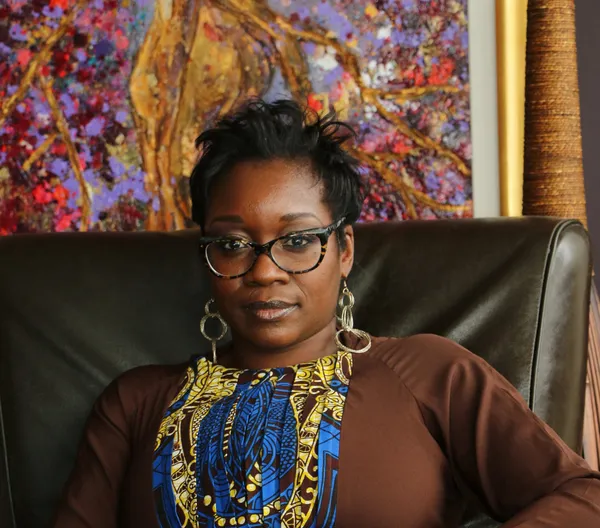
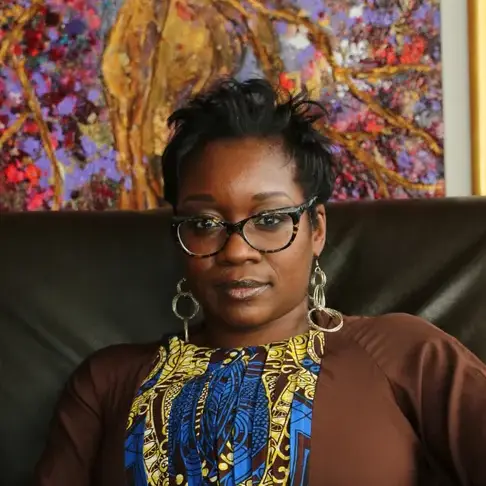
style updates

diff --git a/pages/home.js b/pages/home.js
@@ -29,11 +29,10 @@ Prof. Atuahene has worked as a consultant for the World Bank and the South Afric
 
 Prof. Atuahene won a National Science Foundation award for her current project about racialized property tax administration in Detroit, which has received several accolades, including the Law and Society Association’s John Hope Franklin Award for best paper on race in 2020. In addition to publishing two New York Times op-eds and appearing on national news shows such as Democracy Now! and the Tavis Smiley Show to discuss her Detroit work, she has also published academic articles in journals such as California Law Review, Northwestern Law Review, and Southern California Law Review.
 
-## We Want What's Ours
-
-<div style="align-items: center; display: flex; flex-flow: row wrap; gap: 1.5rem;">
-	<img src="/src/images/south-africa/wwwo-cover.webp" width="150">
-	<div style="flex-basis: 60%; flex-grow: 1">
+<div class="book-banner">
+	<img src="/src/images/south-africa/wwwo-cover.webp" width="200">
+	<div>
+		<h2>We Want What’s Ours</h2>
 		<p style="margin-top: 0">We Want What’s Ours is a detailed study of the South African Land Claims Commission’s attempts to compensate millions of South Africans displaced by the colonial and apartheid regimes.</p>
 		${button({
 			href: '/south-africa/we-want-whats-ours',
@@ -58,19 +57,76 @@ ${grid({
 
 ## Video Gallery
 
-<snappy-carousel>
+<snappy-carousel class="surface">
 	${loop(videoGallery, youtube)}
 </snappy-carousel>
 
-<script type="module">
-	import "//unpkg.com/@snappywc/carousel";
-</script>
-
 <style>
+	.book-banner {
+		background: var(--c-secondary);
+		color: white;
+		display: grid;
+		gap: 2rem;
+		margin: 3rem -1rem;
+		padding: 3rem;
+		text-align: center;
+	}
+
+	.book-banner img {
+		margin: auto;
+	}
+
+	.book-banner h2 {
+		margin-top: 0;
+	}
+
+	@media (min-width: 720px) {
+		.book-banner {
+			align-items: center;
+			grid-template-columns: 200px 1fr;
+			margin: 3rem 0;
+			padding: 0;
+			text-align: left;
+		}
+
+		.book-banner img {
+			margin: -1rem;
+			max-width: unset;
+			width: calc(200px + 1.5rem);
+		}
+
+		.book-banner > div {
+			padding-right: 1rem;
+		}
+	}
+
+	snappy-carousel {
+		--desktop: 50%;
+	}
+	
+	@media (min-width: 720px) {
+		snappy-carousel {
+			--gap: .5rem;
+			padding: .5rem 1rem 0;
+		}
+
+		snappy-carousel::part(track) {
+			margin: 0 -1rem;
+		}
+
+		snappy-carousel > .youtube > button {
+			border-radius: .25rem;
+		}
+	}
+
 	snappy-carousel::part(indicators),
 	snappy-carousel::part(prev),
 	snappy-carousel::part(next) {
 		color: var(--c-primary);
 	}
 </style>
+
+<script type="module" defer>
+	import "//unpkg.com/@snappywc/carousel";
+</script>
 `

diff --git a/src/components/home-header.js b/src/components/home-header.js
@@ -5,7 +5,7 @@ import { button, icon } from './index.js'
 export const homeHeader = ({ meta }) =>
 	html`
 		<div class="home-header">
-			<img src="/src/images/home/bernadette.webp" height="150" width="150" />
+			<img src="/src/images/home/bernadette.webp" height="200" width="200" />
 			<div>
 				<h1>${meta.title}</h1>
 				<p>${meta.description}</p>
@@ -27,15 +27,17 @@ homeHeader.style = scss`
 		align-items: center;
 		display: grid;
 		gap: 1.5rem;
-		grid-template-columns: 150px 1fr;
+		grid-template-columns: 200px 1fr;
 		margin-top: 3rem;
 
 		@media (max-width: 660px) {
 			grid-template-columns: 1fr;
+			text-align: center;
 		}
 
 		> img {
 			border-radius: 50%;
+			margin: auto;
 			object-fit: cover;
 		}
 

diff --git a/src/style.css b/src/style.css
@@ -1,5 +1,11 @@
 :root {
+	background: #f3f5f9;
 	font-family: sans-serif;
+	--c-primary: #0079ee;
+	--c-secondary: #363b67;
+	--footer: var(--c-secondary);
+	--nav: transparent;
+	--nav-color: black;
 }
 
 :root,
@@ -8,13 +14,25 @@ body {
 }
 
 body {
-	--c-primary: #0079ee;
 	margin: 0;
+}
+
+.surface {
+	border-radius: 0.5rem;
+	border: none;
+	box-shadow: 0px 2px 4px rgba(155, 155, 155, 0.5);
+	overflow: hidden;
+	position: relative;
+}
+
+nav > div > a {
+	border-radius: 0.5rem;
+	padding: 0.5rem;
 }
 
 main {
 	margin: 0 auto 3rem;
-	max-width: 70ch;
+	max-width: 80ch;
 	padding: 1rem;
 }
 

diff --git a/pages/press.js b/pages/press.js
@@ -13,13 +13,25 @@ export const body = md`
 
 ## Selected Highlights
 
-${pressList(highlights)}
+<div class="surface">
+	${pressList(highlights)}
+</div>
 
 ## Detroit
 
-${pressList(detroit)}
+<div class="surface">
+	${pressList(detroit)}
+</div>
 
 ## South Africa
 
-${pressList(southAfrica)}
+<div class="surface">
+	${pressList(southAfrica)}
+</div>
+
+<style>
+	.surface {
+		padding: 1rem;
+	}
+</style>
 `

diff --git a/src/components/grid.js b/src/components/grid.js
@@ -1,8 +1,10 @@
-import { css, html } from 'cuirk'
+import { css, html, renderChildren } from 'cuirk'
 
 export const grid = ({ children, size = '30ch' }) =>
 	html`
-		<div class="grid" style="--grid-size: ${size}">${children.join('')}</div>
+		<div class="grid" style="--grid-size: ${size}">
+			${renderChildren(children)}
+		</div>
 	`
 
 grid.style = css`

diff --git a/src/layouts/default.js b/src/layouts/default.js
@@ -9,10 +9,10 @@ export default ({ meta, children }) => {
 		<!DOCTYPE html>
 		<html lang="en">
 			<head>
-				<!-- page meta -->
-				${pageMeta(meta)}
 				<!-- component styles -->
 				${componentStyles(components)}
+				<!-- page meta -->
+				${pageMeta(meta)}
 			</head>
 			<body>
 				${nav({ links: navLinks })}

diff --git a/src/components/footer.js b/src/components/footer.js
@@ -18,8 +18,8 @@ export const footer = () => html`
 
 footer.style = scss`
 	footer {
-		background: var(--c-footer, black);
-		color: var(--c-footer-color, white);
+		background: var(--footer, black);
+		color: var(--footer-color, white);
 		display: grid;
 		gap: 1.5rem;
 		justify-content: center;
